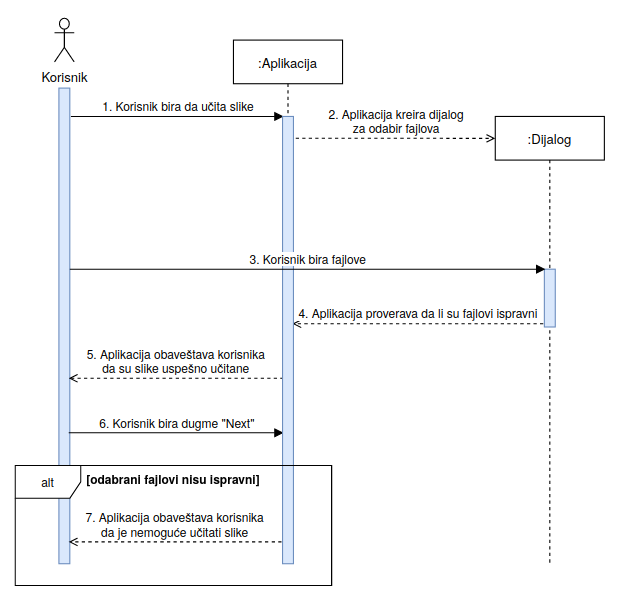
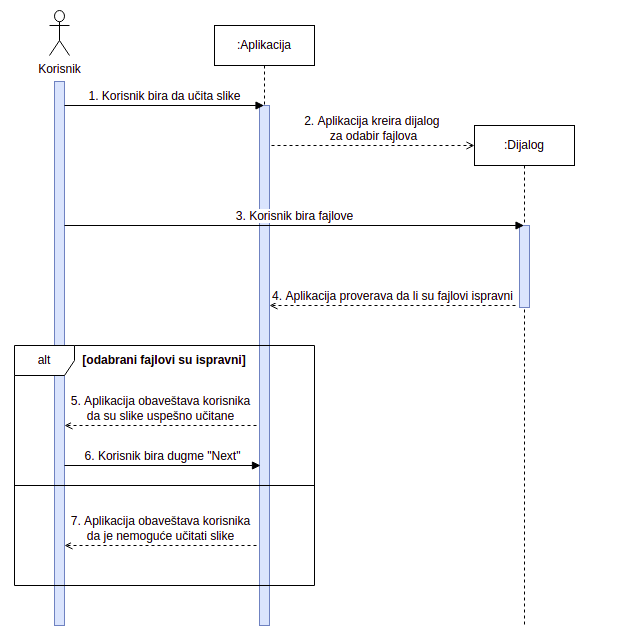
docs: Sequence diagrams added

Changed region(s): [[0.0, 0.0299, 0.8887, 0.9851], [0.7355, 0.1791, 0.95, 0.2687], [0.4903, 0.1791, 0.7355, 0.2388]]

diff --git a/Specifikacija/specifikacija.md b/Specifikacija/specifikacija.md
@@ -91,4 +91,6 @@ _Specijalni zahtevi_: /
 _Dodatne informacije_: /
 
 _Dijagram sekvenci:_
+
+![](dijagram_sekvenci_split_dokumenta.png)
 ___
